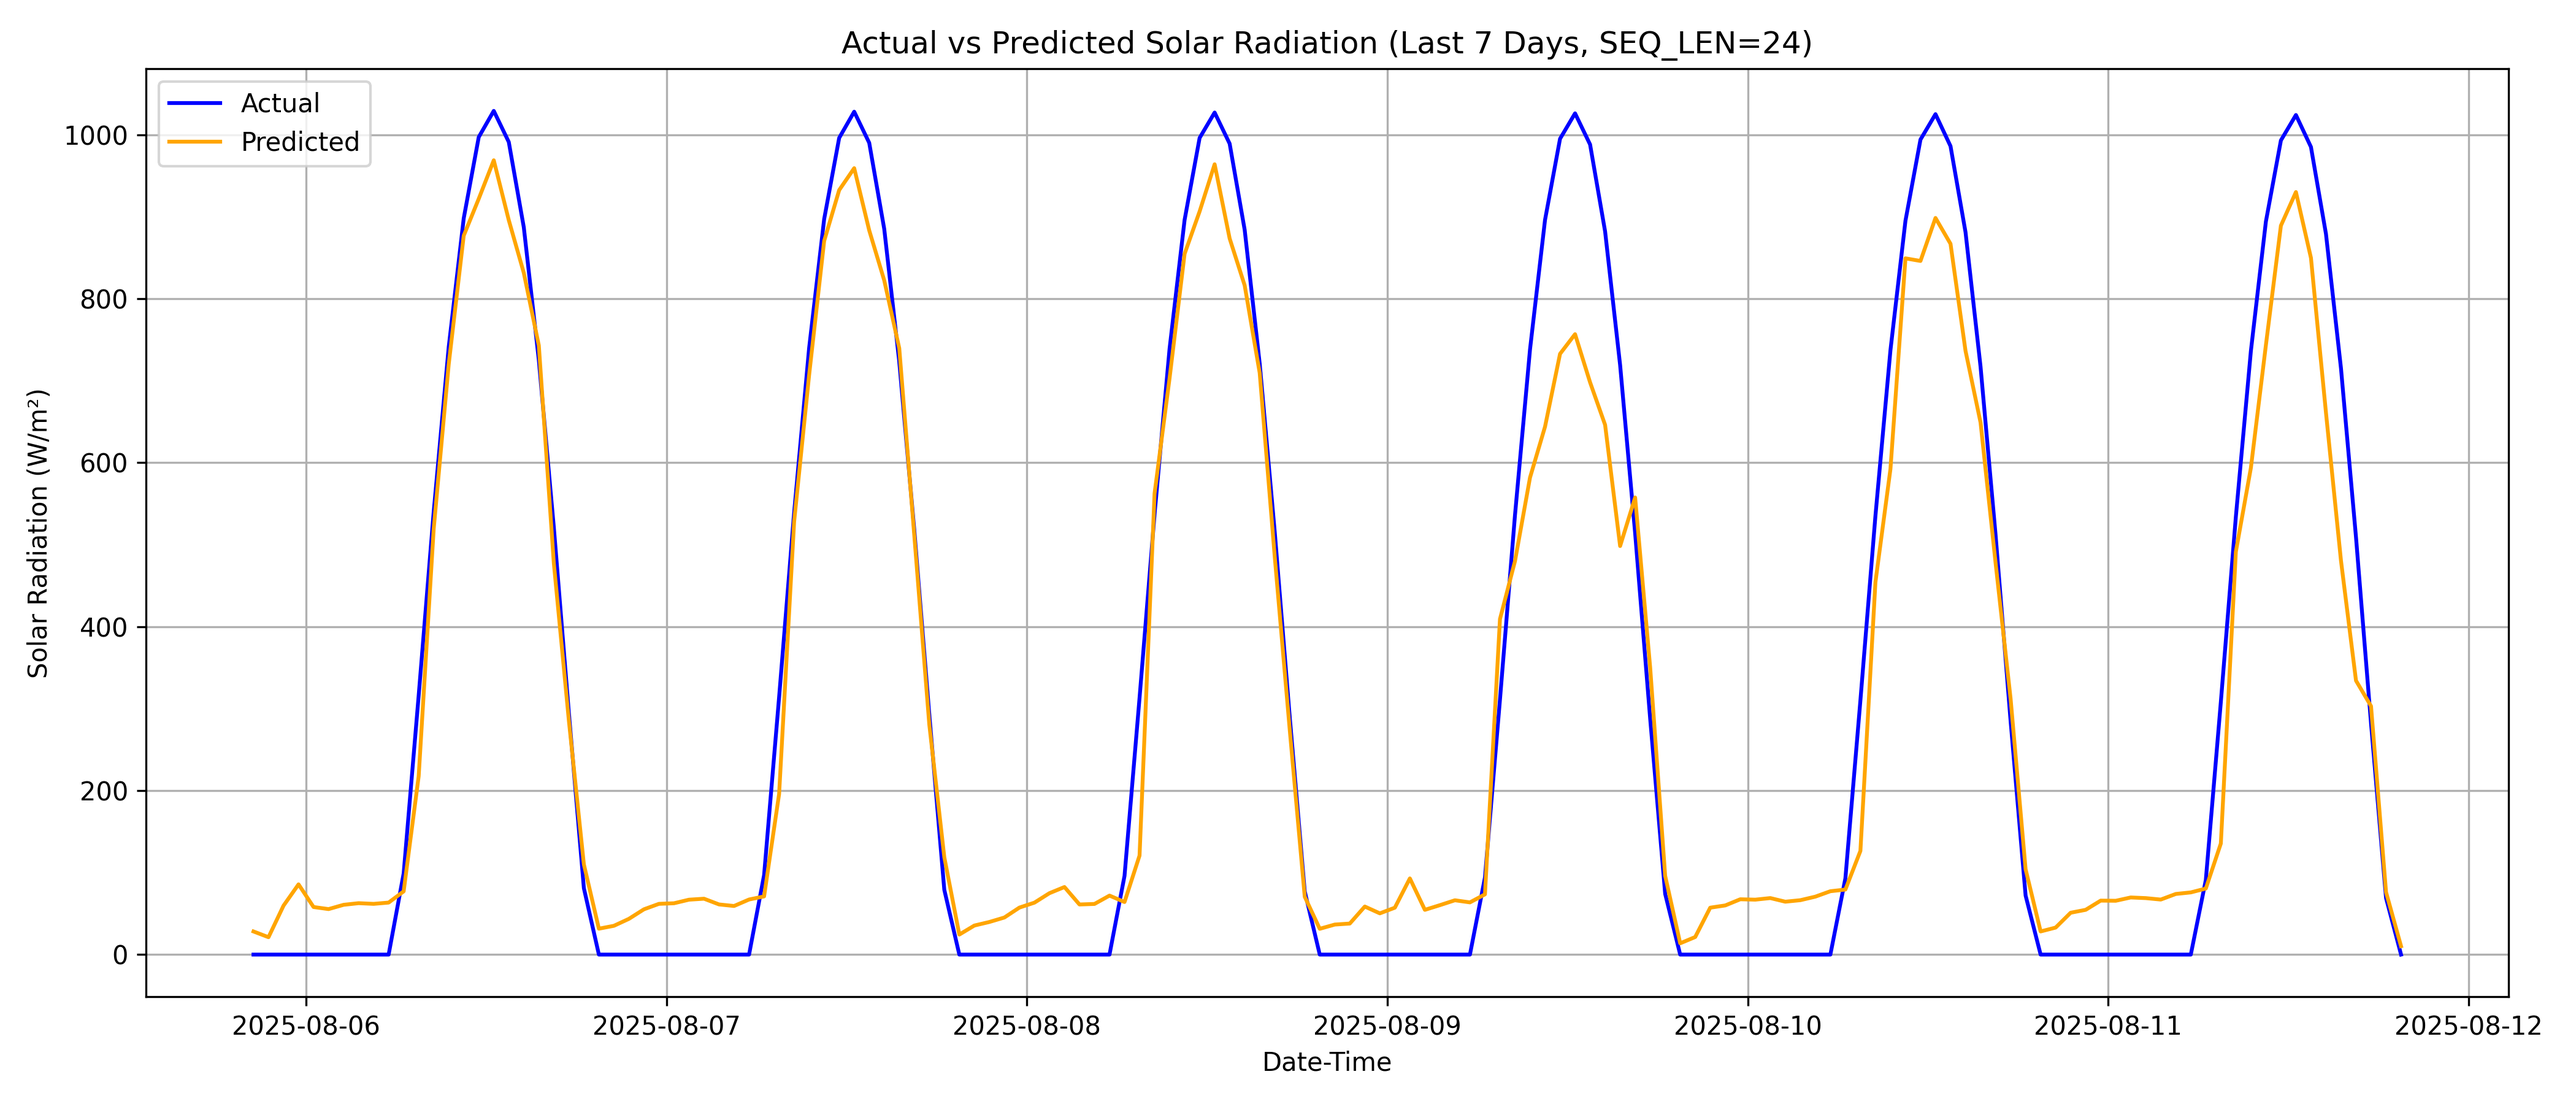
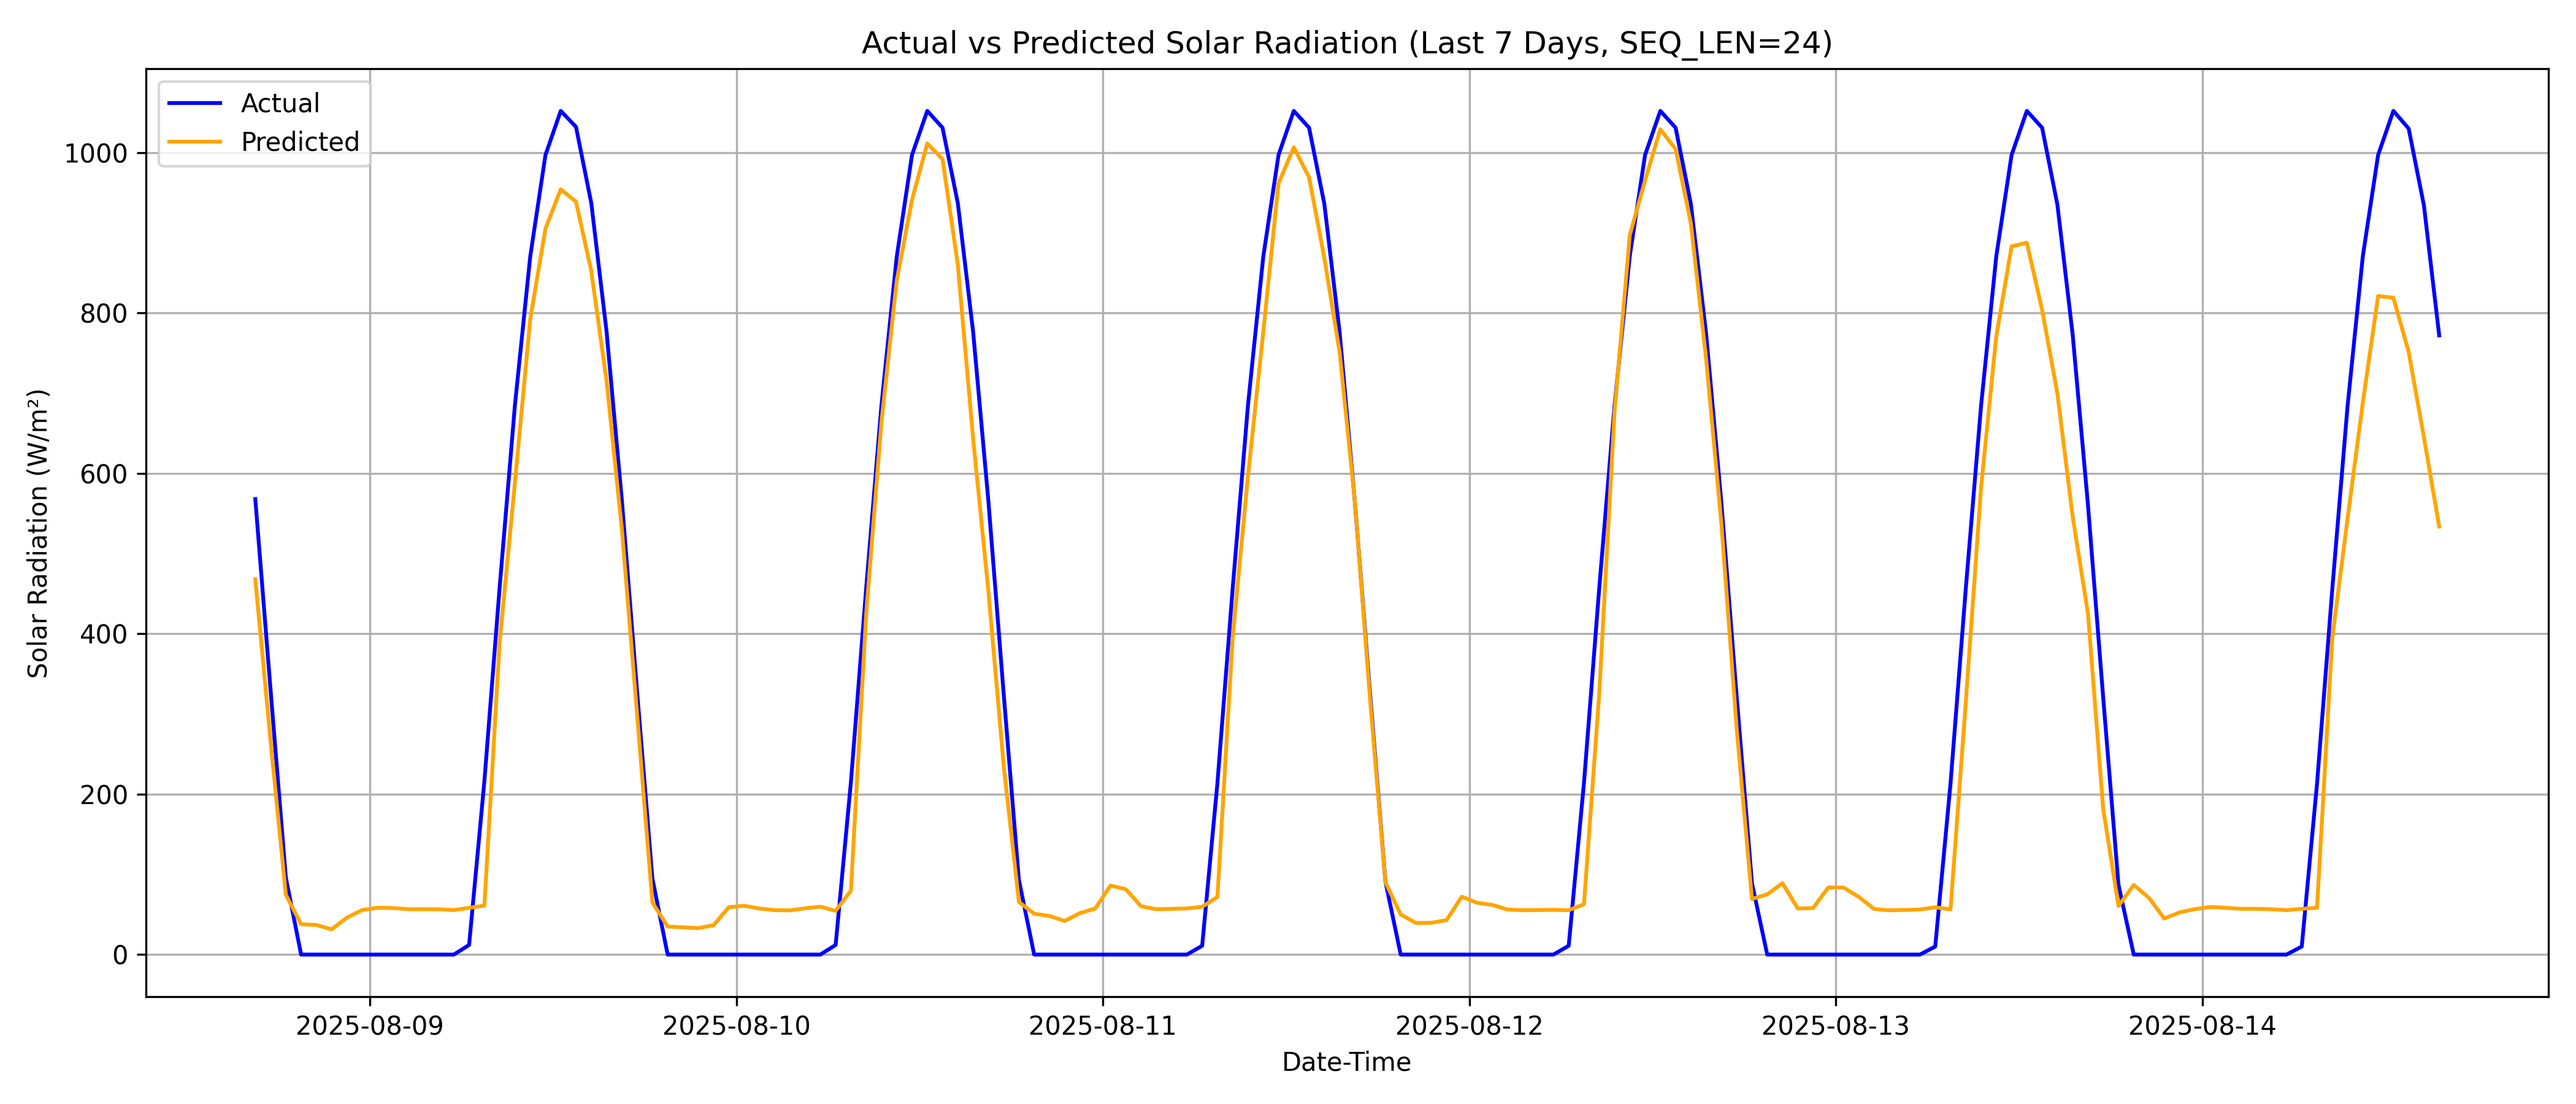
done test

diff --git a/Frontend/vite.config.js b/Frontend/vite.config.js
@@ -10,4 +10,12 @@ export default defineConfig({
     tailwindcss(), 
     cesium()
   ],
+  
+    server: {
+    allowedHosts: [
+      'localhost',
+      '127.0.0.1',
+      '3c8d1de0d7a1.ngrok-free.app' // ✅ Add your ngrok URL here
+    ]
+  }
 })

diff --git a/final_testing.py b/final_testing.py
@@ -72,7 +72,7 @@ if __name__ == "__main__":
         "lon": lon,
         "key": API_KEY,
         "start_date": start_time.strftime("%Y-%m-%d:%H"),
-        "end_date": end_time.strftime("%Y-%m-%d:%H")
+        "end_date": end_time.strftime("%Y-%m-%d:%H"),
     }
     r = requests.get(API_URL, params=params)
     r.raise_for_status()
